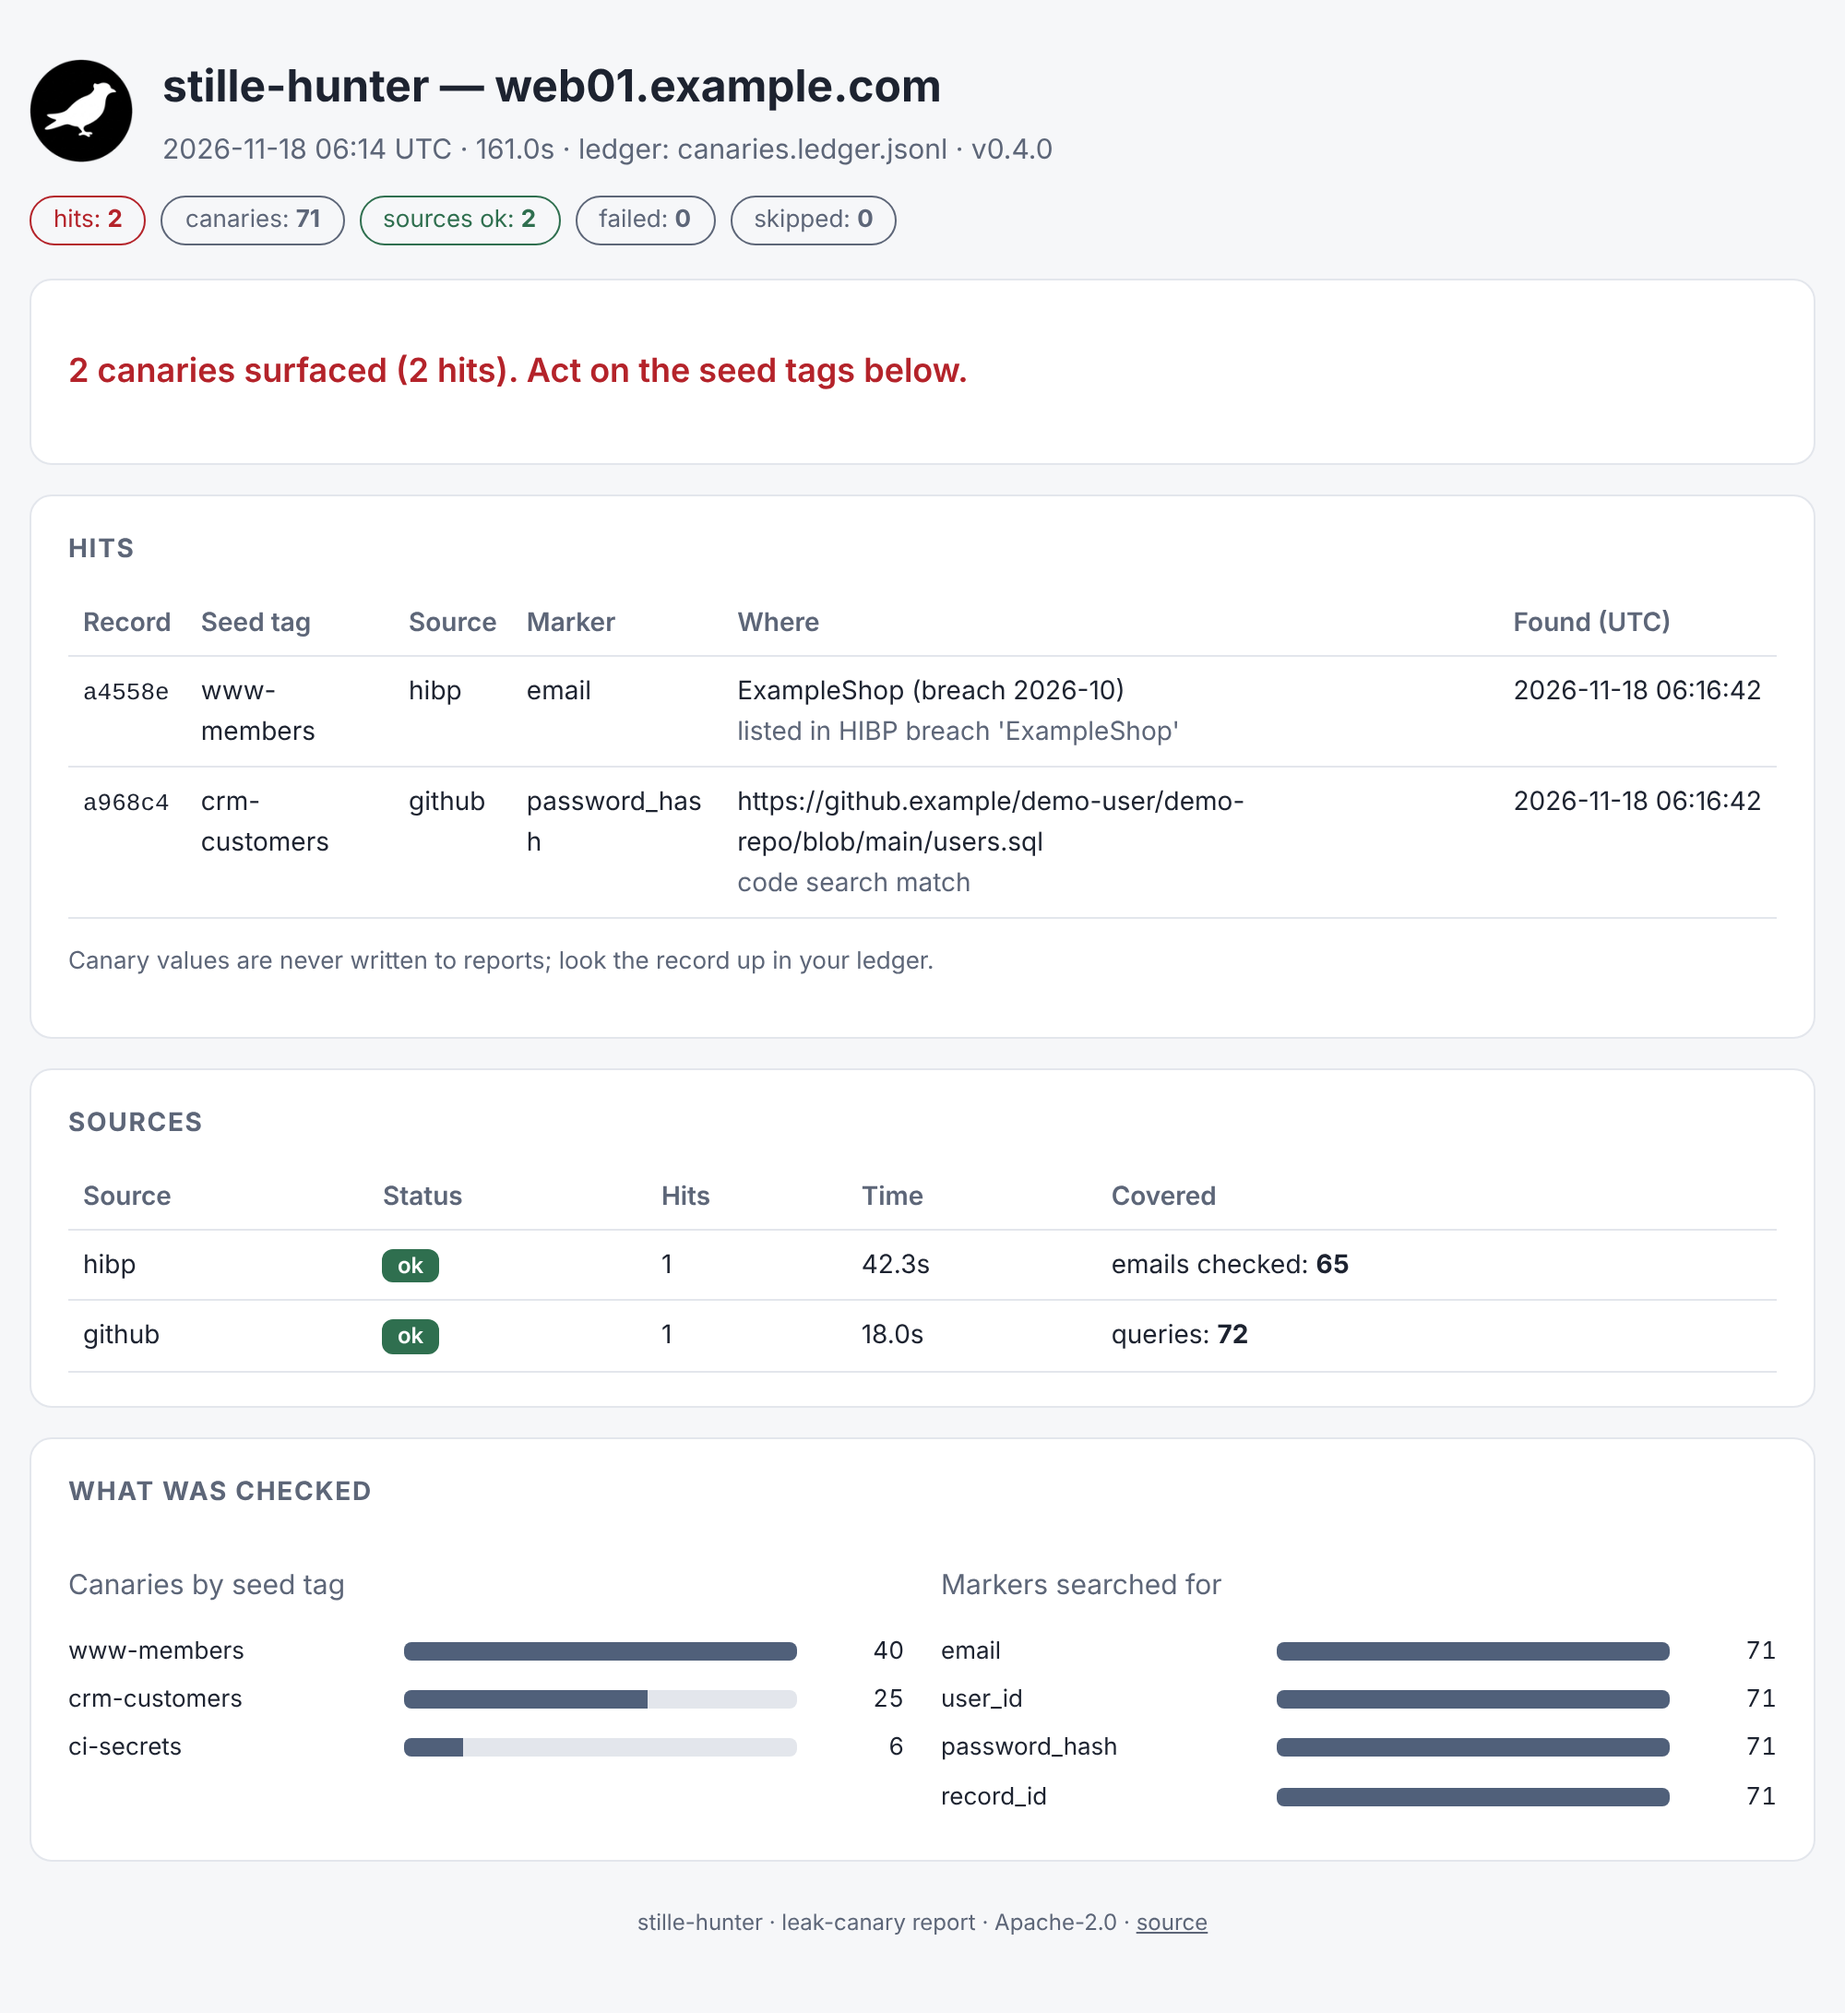
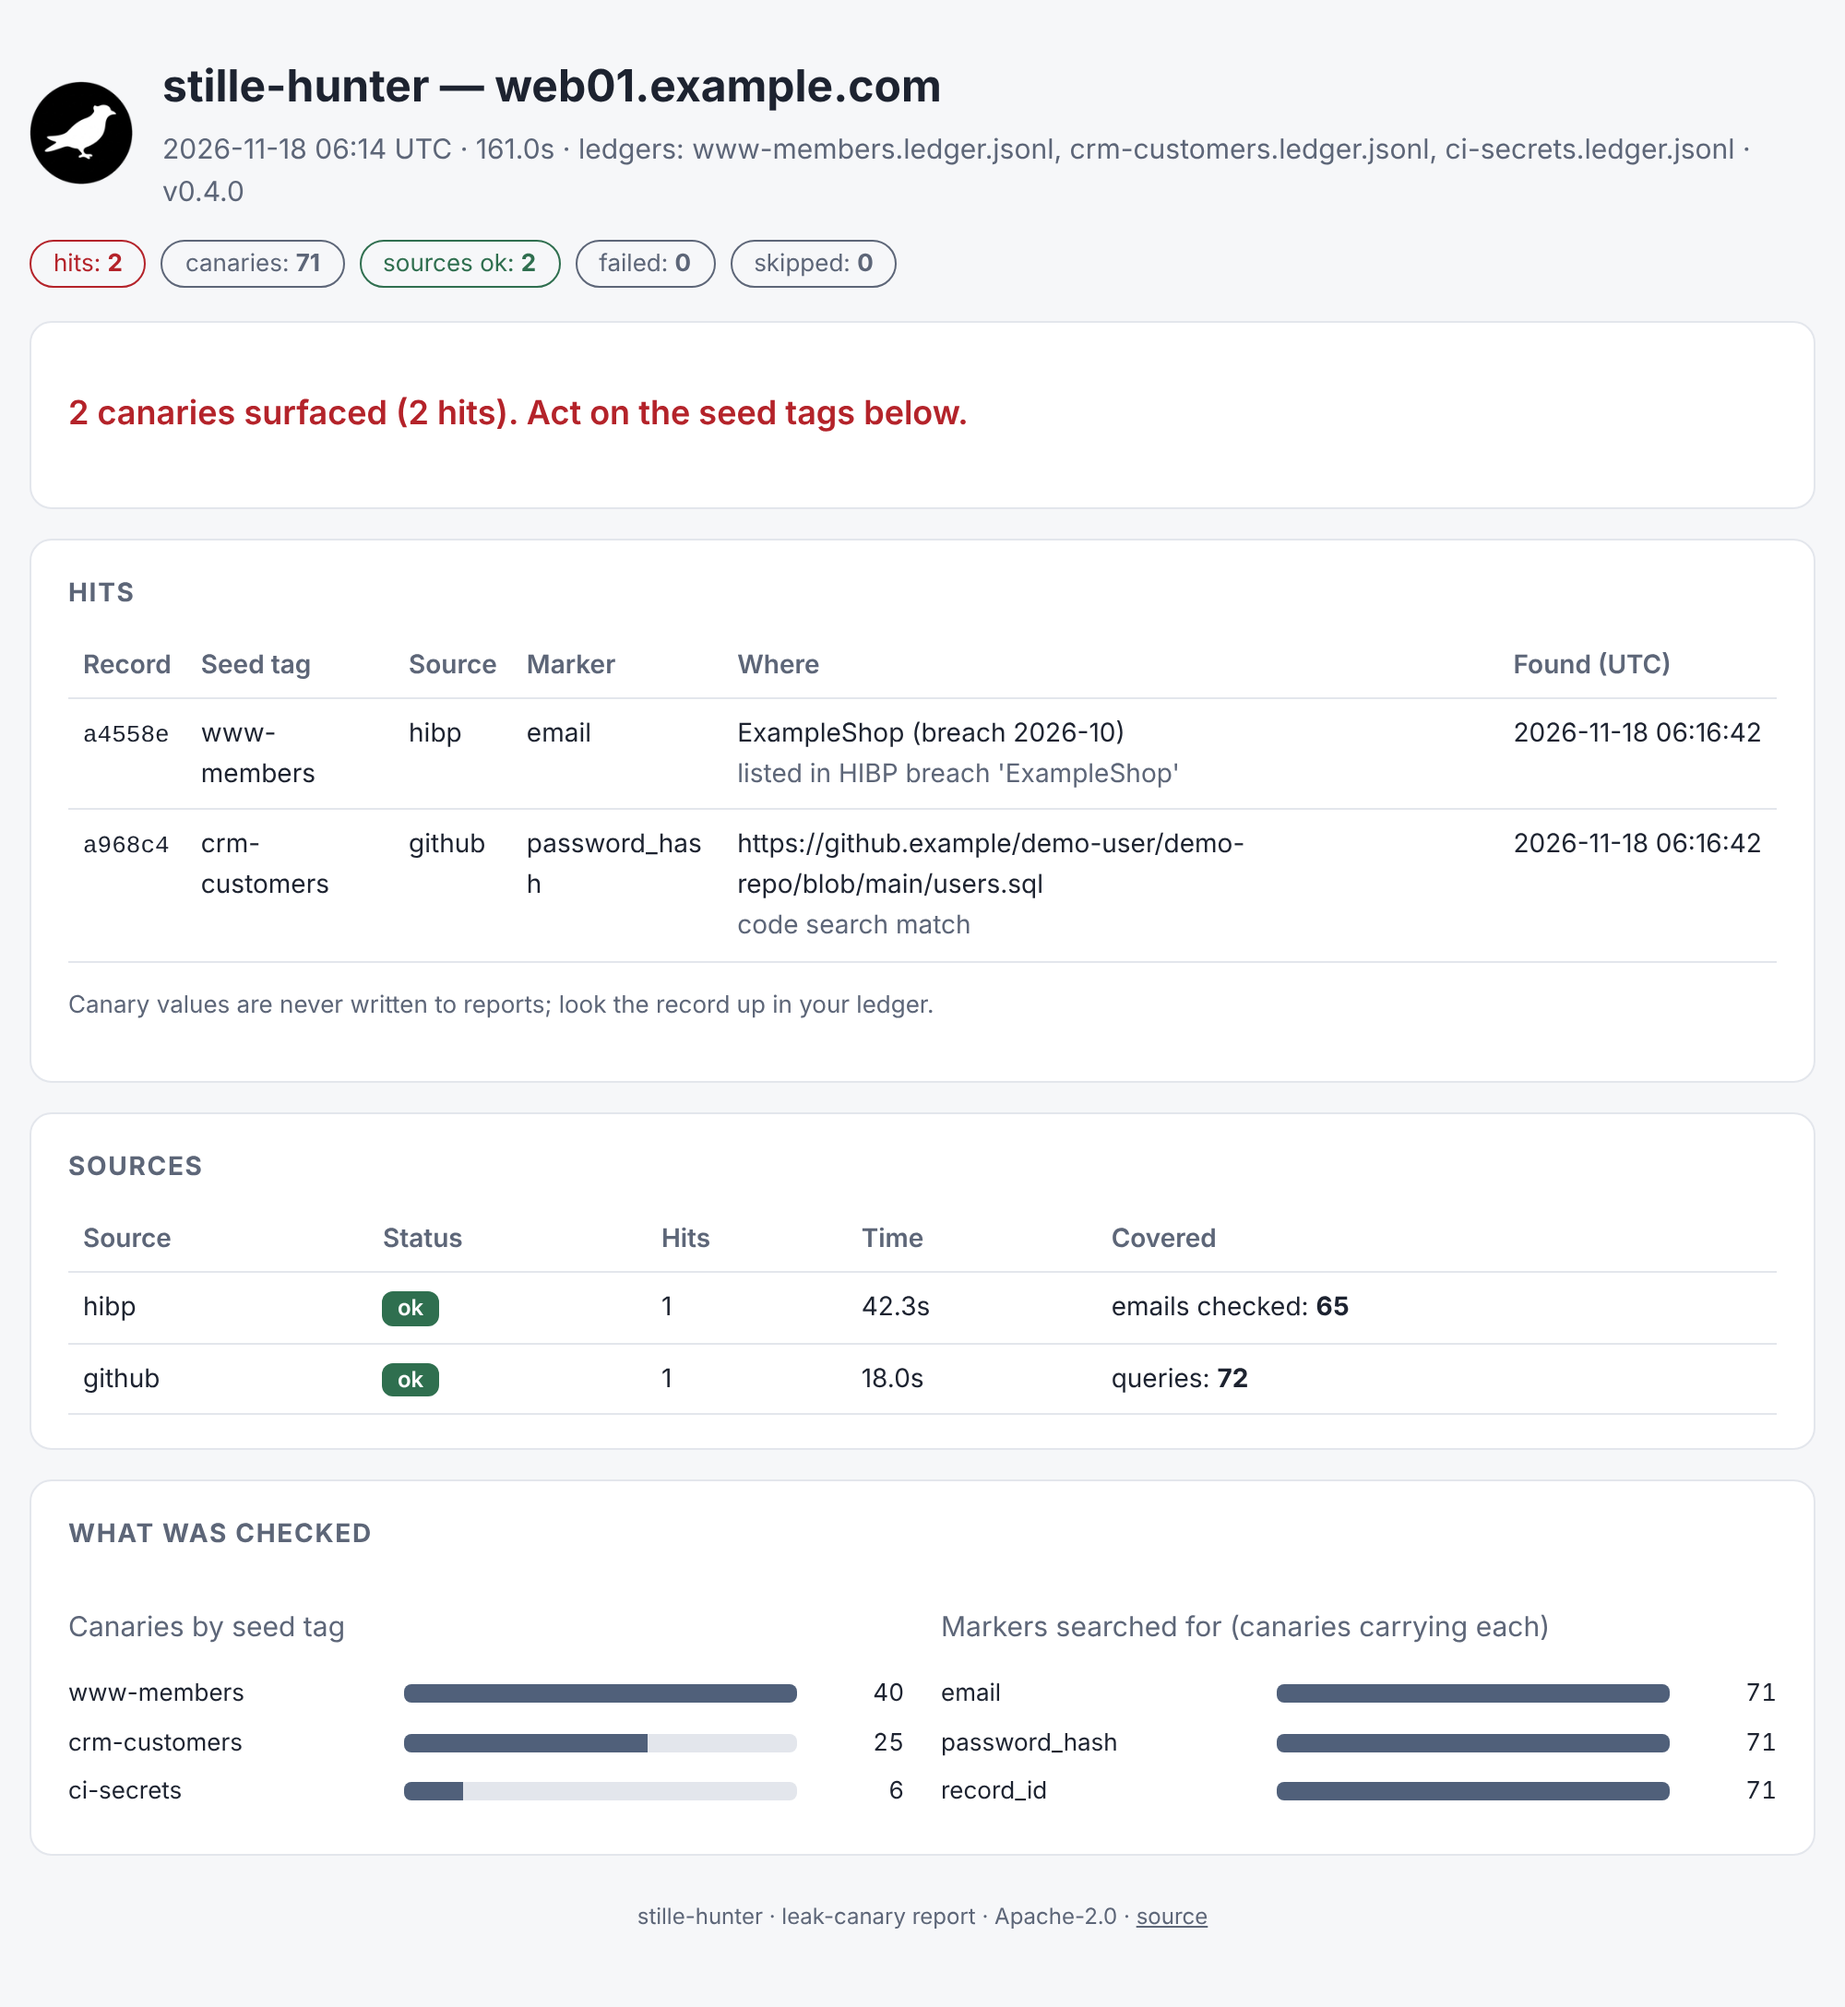
check: several ledgers per run; report counts only searched markers
- check takes several ledgers (nargs *) and checks them together, so one
  run sends one notification and writes one report. The report lists the
  ledger file names.
- 'Markers searched for' counts only the kinds the run's sources search for,
  so metadata such as an API token's provider is not shown as a marker.
- docs/unattended.md: the cron script checks all ledgers in one run and
  writes latest.html / latest.json. Sample screenshots refreshed.

Claude-Session: https://claude.ai/code/session_0139omCv1xo8dbXfGSWQLmaN

diff --git a/src/stille_hunter/report.py b/src/stille_hunter/report.py
@@ -33,11 +33,17 @@ def report_format(path: str) -> str | None:
 
 
 def build(*, canaries, source_names, hits, results, started: datetime,
-          finished: datetime, ledger_path: str = "", title: str = "") -> dict:
-    """The report as a plain dict (the JSON form)."""
+          finished: datetime, ledgers=(), title: str = "", searched=None) -> dict:
+    """The report as a plain dict (the JSON form).
+
+    `ledgers` are the ledger paths (only file names are kept). `searched`, if
+    given, limits the marker counts to the kinds the run's sources search for,
+    so metadata such as a token's provider is not counted as a marker."""
+    if isinstance(ledgers, str):
+        ledgers = [ledgers]
     kinds: Counter = Counter()
     for c in canaries:
-        kinds.update(c.tokens().keys())
+        kinds.update(k for k in c.tokens() if searched is None or k in searched)
     tags = Counter(c.seed_tag or "(none)" for c in canaries)
     sources = [{"name": r.name, "status": r.status, "reason": r.reason, "hits": r.hits,
                 "seconds": r.seconds, "stats": dict(r.stats)} for r in results]
@@ -49,7 +55,7 @@ def build(*, canaries, source_names, hits, results, started: datetime,
         "started_at": started.astimezone(timezone.utc).isoformat(timespec="seconds"),
         "finished_at": finished.astimezone(timezone.utc).isoformat(timespec="seconds"),
         "duration_seconds": round((finished - started).total_seconds(), 1),
-        "ledger": os.path.basename(ledger_path),
+        "ledgers": [os.path.basename(p) for p in ledgers],
         "summary": {
             "canaries": len(canaries),
             "sources": len(source_names),
@@ -126,6 +132,14 @@ def _bars(counts: dict) -> str:
         for k, v in counts.items())
 
 
+def _ledgers(names: list) -> str:
+    if not names:
+        return "ledger: -"
+    if len(names) <= 3:
+        return ("ledger: " if len(names) == 1 else "ledgers: ") + _e(", ".join(names))
+    return f"<span title='{_e(', '.join(names))}'>{len(names)} ledgers</span>"
+
+
 def _stats(stats: dict) -> str:
     return " · ".join(f"{_e(k)}: <b>{_e(v)}</b>" for k, v in stats.items())
 
@@ -184,7 +198,7 @@ def to_html(rep: dict) -> str:
 <div><h1>stille-hunter &mdash; {_e(rep['title'])}</h1>
 <div class="muted">{_e(rep['started_at'][:16].replace('T', ' '))} UTC
 &middot; {rep['duration_seconds']}s
-&middot; ledger: {_e(rep['ledger'] or '-')} &middot; v{_e(rep['version'])}</div></div>
+&middot; {_ledgers(rep['ledgers'])} &middot; v{_e(rep['version'])}</div></div>
 </header>
 <div class="pills">{pills}</div>
 <section class="card">{status}</section>
@@ -194,7 +208,7 @@ def to_html(rep: dict) -> str:
 {src_rows}</table></section>
 <section class="card"><h2>What was checked</h2><div class="grid">
 <div><p class="muted">Canaries by seed tag</p>{_bars(c['by_seed_tag'])}</div>
-<div><p class="muted">Markers searched for</p>{_bars(c['by_marker'])}</div>
+<div><p class="muted">Markers searched for (canaries carrying each)</p>{_bars(c['by_marker'])}</div>
 </div></section>
 <footer>stille-hunter &middot; leak-canary report &middot; Apache-2.0 &middot;
 <a href="https://github.com/ForexRobotics/stille-hunter" style="color:inherit">source</a></footer>

diff --git a/src/stille_hunter/check.py b/src/stille_hunter/check.py
@@ -293,6 +293,16 @@ def load_plugins(packages=("stille_hunter.sources", "stille_hunter_pro.sources")
     return problems
 
 
+def _searched_kinds(results: list[SourceResult]) -> set[str]:
+    """Marker kinds that the sources which actually ran can search for."""
+    kinds: set[str] = set()
+    for r in results:
+        cls = _REGISTRY.get(r.name)
+        if cls is not None and r.status != "skipped":
+            kinds.update(cls.supports)
+    return kinds
+
+
 def main(argv=None):
     # Discover sources from the stille_hunter.sources package (and the pro
     # package if installed). Importing each registers it.
@@ -300,9 +310,9 @@ def main(argv=None):
 
     p = argparse.ArgumentParser(
         description="Check canary ledgers against leak sources (stille-hunter).")
-    p.add_argument("ledger", nargs="?",
-                   help="Path to a canary ledger (.jsonl or .csv). "
-                        "Not needed with --list-sources.")
+    p.add_argument("ledger", nargs="*",
+                   help="Canary ledger(s) (.jsonl or .csv); several are checked "
+                        "together in one run. Not needed with --list-sources.")
     p.add_argument("--sources", default="null",
                    help="Comma-separated source names. Registered: "
                         + ",".join(sorted(_REGISTRY)) + " (default: null)")
@@ -367,11 +377,13 @@ def main(argv=None):
         if report.report_format(path) is None:
             p.error(f"--report path must end in .html or .json: {path}")
 
-    try:
-        canaries = load_ledger(args.ledger, args.include_inbox)
-    except FileNotFoundError:
-        sys.stderr.write(f"ERROR: ledger not found: {args.ledger}\n")
-        sys.exit(2)
+    canaries = []
+    for path in args.ledger:
+        try:
+            canaries.extend(load_ledger(path, args.include_inbox))
+        except FileNotFoundError:
+            sys.stderr.write(f"ERROR: ledger not found: {path}\n")
+            sys.exit(2)
     source_names = [s.strip() for s in args.sources.split(",") if s.strip()]
 
     started = datetime.now(timezone.utc)
@@ -398,7 +410,8 @@ def main(argv=None):
     if args.report:
         rep = report.build(canaries=canaries, source_names=source_names, hits=hits,
                            results=results, started=started, finished=finished,
-                           ledger_path=args.ledger, title=args.report_title or "")
+                           ledgers=args.ledger, title=args.report_title or "",
+                           searched=_searched_kinds(results))
         for path in args.report:
             try:
                 report.write(path, rep)

diff --git a/tests/test_report.py b/tests/test_report.py
@@ -83,7 +83,7 @@ def test_cli_writes_html_and_json_without_canary_values(tmp_path, capsys):
                     "--report-title", "www01 <prod>"])
     assert e.value.code == 1                                # a hit
     rep = json.loads(json_path.read_text(encoding="utf-8"))
-    assert rep["title"] == "www01 <prod>" and rep["ledger"] == "www.ledger.jsonl"
+    assert rep["title"] == "www01 <prod>" and rep["ledgers"] == ["www.ledger.jsonl"]
     assert rep["summary"] == {"canaries": 2, "sources": 3, "hits": 1, "canaries_hit": 1,
                               "sources_ok": 1, "sources_failed": 1, "sources_skipped": 1}
     assert rep["canaries"]["by_seed_tag"] == {"www-members": 1, "ci-secrets": 1}
@@ -122,4 +122,26 @@ def test_failed_source_is_flagged_as_incomplete(tmp_path):
 def test_bad_report_extension_is_refused_before_running(tmp_path):
     with pytest.raises(SystemExit) as e:
         check.main([_ledger(tmp_path), "--sources", "test_finds", "--report", "r.txt"])
+    assert e.value.code == 2
+
+
+def test_several_ledgers_and_only_searched_markers(tmp_path):
+    a = tmp_path / "a.ledger.jsonl"
+    b = tmp_path / "b.ledger.jsonl"
+    a.write_text(json.dumps({"record_id": "aaaaaa", "seed_tag": "www", "email": SECRET}) + "\n")
+    b.write_text(json.dumps({"record_id": "bbbbbb", "seed_tag": "ci", "provider": "github",
+                             "api_token": "ghp_bbbbbbEXAMPLE0000"}) + "\n")
+    out = tmp_path / "r.json"
+    with pytest.raises(SystemExit) as e:
+        check.main([str(a), str(b), "--sources", "test_finds", "--report", str(out)])
+    assert e.value.code == 1
+    rep = json.loads(out.read_text(encoding="utf-8"))
+    assert rep["ledgers"] == ["a.ledger.jsonl", "b.ledger.jsonl"]
+    assert rep["summary"]["canaries"] == 2
+    assert rep["canaries"]["by_marker"] == {"email": 1}      # test_finds searches email only
+
+
+def test_missing_one_of_several_ledgers_is_an_error(tmp_path):
+    with pytest.raises(SystemExit) as e:
+        check.main([_ledger(tmp_path), str(tmp_path / "nope.jsonl"), "--sources", "null"])
     assert e.value.code == 2

diff --git a/docs/unattended.md b/docs/unattended.md
@@ -61,14 +61,16 @@ python3 -m venv ~/.stille/venv
 chmod 600 ~/.stille/config.json ~/.stille/ledgers/*
 ```
 
-`~/.stille/check.sh` checks every ledger:
+`~/.stille/check.sh` checks every ledger in one run (one notification, one
+report):
 
 ```bash
 #!/bin/sh
-for ledger in "$HOME"/.stille/ledgers/*.ledger.jsonl; do
-  "$HOME"/.stille/venv/bin/stille-hunter check "$ledger" \
-    --sources hibp,github --config "$HOME"/.stille/config.json
-done
+echo "== $(date '+%Y-%m-%d %H:%M:%S')"
+mkdir -p "$HOME"/.stille/reports
+"$HOME"/.stille/venv/bin/stille-hunter check "$HOME"/.stille/ledgers/*.ledger.jsonl \
+  --sources hibp,github --config "$HOME"/.stille/config.json \
+  --report "$HOME"/.stille/reports/latest.html --report "$HOME"/.stille/reports/latest.json
 ```
 
 Then `chmod 700 ~/.stille/check.sh` and add a daily entry with `crontab -e`:
@@ -77,10 +79,8 @@ Then `chmod 700 ~/.stille/check.sh` and add a daily entry with `crontab -e`:
 17 6 * * * $HOME/.stille/check.sh >> $HOME/.stille/check.log 2>&1
 ```
 
-To keep a page you can open after each run, add
-`--report "$HOME/.stille/reports/$(basename "$ledger" .ledger.jsonl).html"` to
-the `check` line (create `~/.stille/reports` first). It is overwritten each
-run; add `--report ....json` too if a script or an AI assistant should read it.
+`latest.html` is a page you can open after each run, and `latest.json` the
+same for a script or an AI assistant; both are overwritten each run.
 
 ## 3b. Windows Task Scheduler
 

diff --git a/CHANGELOG.md b/CHANGELOG.md
@@ -14,6 +14,8 @@ While the version is `0.x`, minor bumps may include breaking changes; see
   HTML page (light and dark) or JSON, by extension; repeatable (#28). It shows
   hits without canary values, each source's outcome and coverage, and the
   canaries checked by seed tag and marker. `--report-title` sets its title.
+- `check` takes several ledgers and checks them together in one run (one
+  notification, one report).
 - Sources can describe what a run covered through `CheckSource.stats` (short
   scalar facts, shown as given in reports). `run_check(..., results=[])`
   returns a `SourceResult` per source; its return value is unchanged.

diff --git a/README.md b/README.md
@@ -132,6 +132,9 @@ cp examples/config.example.json config.json   # add your API key(s)
 stille-hunter check canary_seeded.ledger.jsonl --sources hibp --config config.json
 ```
 
+Pass several ledgers (`check ledgers/*.ledger.jsonl ...`) to check them all in
+one run.
+
 Exit code is `1` if any canary was found leaked (so cron/CI can alert), `0` if
 clean, `2` on a usage error. Freshly-minted canaries read clean until a *new*
 breach includes one, so run this on a schedule.
